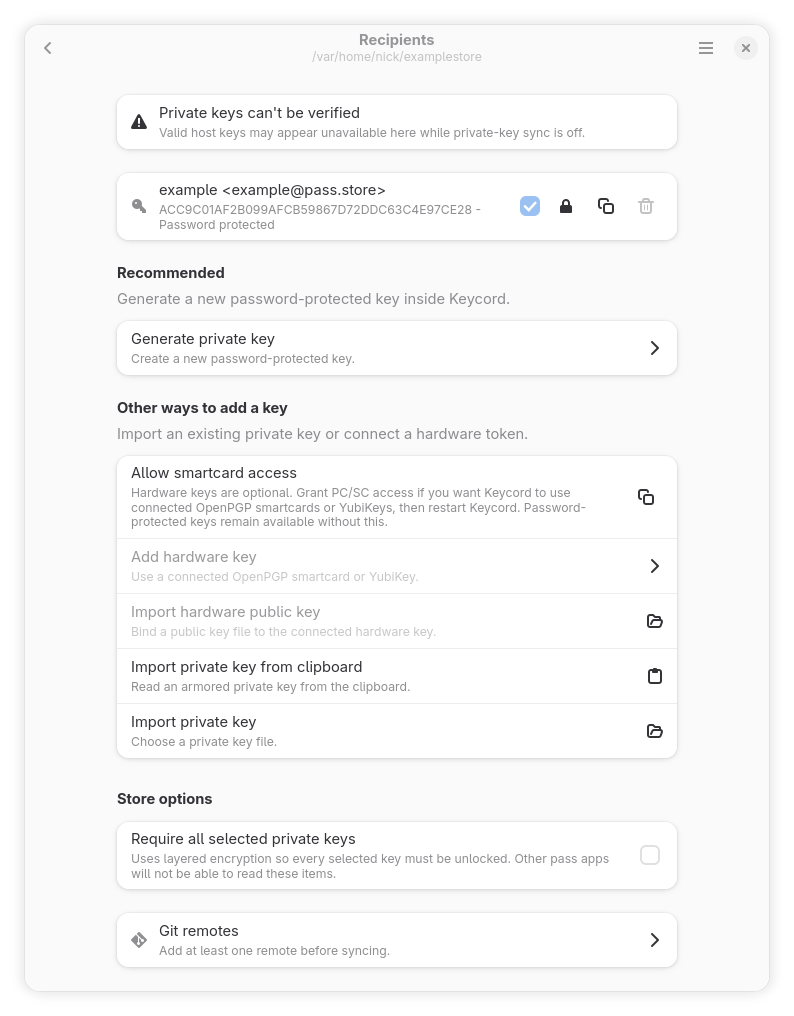
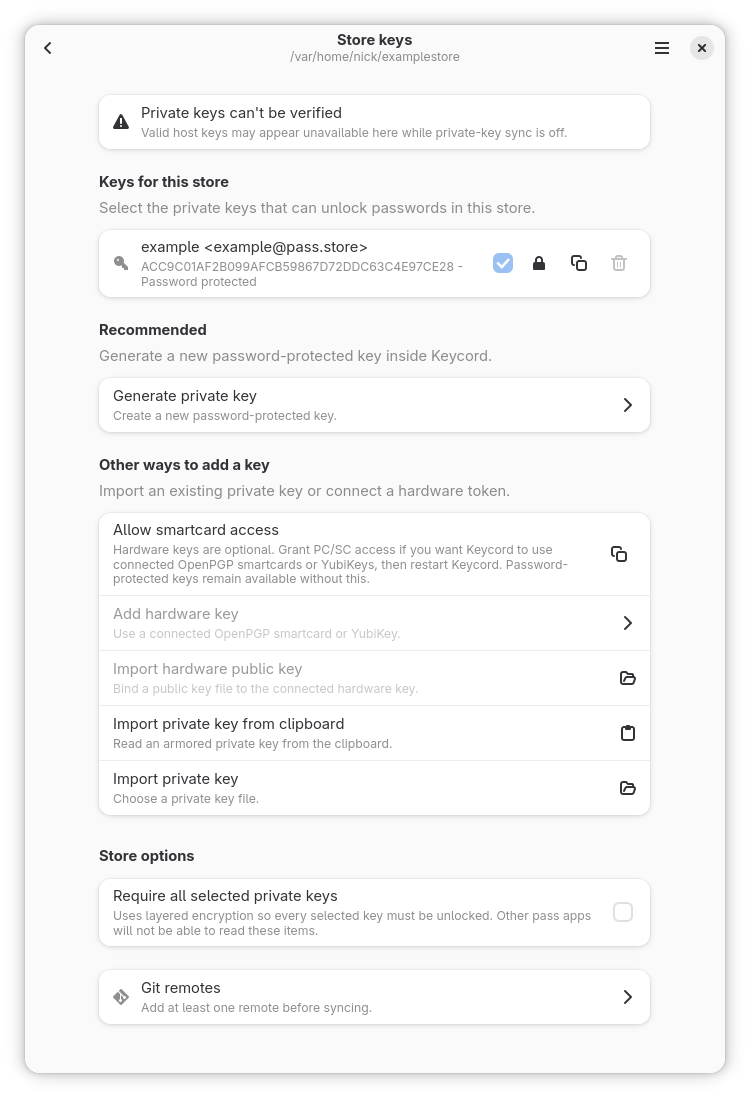
titles

diff --git a/src/store/recipients_page/mod.rs b/src/store/recipients_page/mod.rs
@@ -33,7 +33,7 @@ impl StoreRecipientsMode {
     pub const fn page_title(self) -> &'static str {
         match self {
             Self::Create => "New Store",
-            Self::Edit => "Recipients",
+            Self::Edit => "Store keys",
         }
     }
 
@@ -48,7 +48,7 @@ impl StoreRecipientsMode {
     pub const fn save_failure_message(self) -> &'static str {
         match self {
             Self::Create => "Couldn't create the store.",
-            Self::Edit => "Couldn't save recipients.",
+            Self::Edit => "Couldn't save store keys.",
         }
     }
 
@@ -173,7 +173,7 @@ pub fn sync_store_recipients_page_header(state: &StoreRecipientsPageState) {
     let Some(request) = state.current_request() else {
         state.save.set_visible(false);
         set_save_button_for_password(&state.save);
-        state.win.set_title("Recipients");
+        state.win.set_title("Store keys");
         state.win.set_subtitle(APP_WINDOW_TITLE);
         return;
     };
@@ -243,8 +243,9 @@ mod tests {
     use super::StoreRecipientsMode;
 
     #[test]
-    fn create_mode_has_create_title() {
+    fn mode_titles_match_their_behavior() {
         assert_eq!(StoreRecipientsMode::Create.page_title(), "New Store");
+        assert_eq!(StoreRecipientsMode::Edit.page_title(), "Store keys");
     }
 
     #[test]
@@ -255,7 +256,7 @@ mod tests {
         );
         assert_eq!(
             StoreRecipientsMode::Edit.save_failure_message(),
-            "Couldn't save recipients."
+            "Couldn't save store keys."
         );
     }
 }
